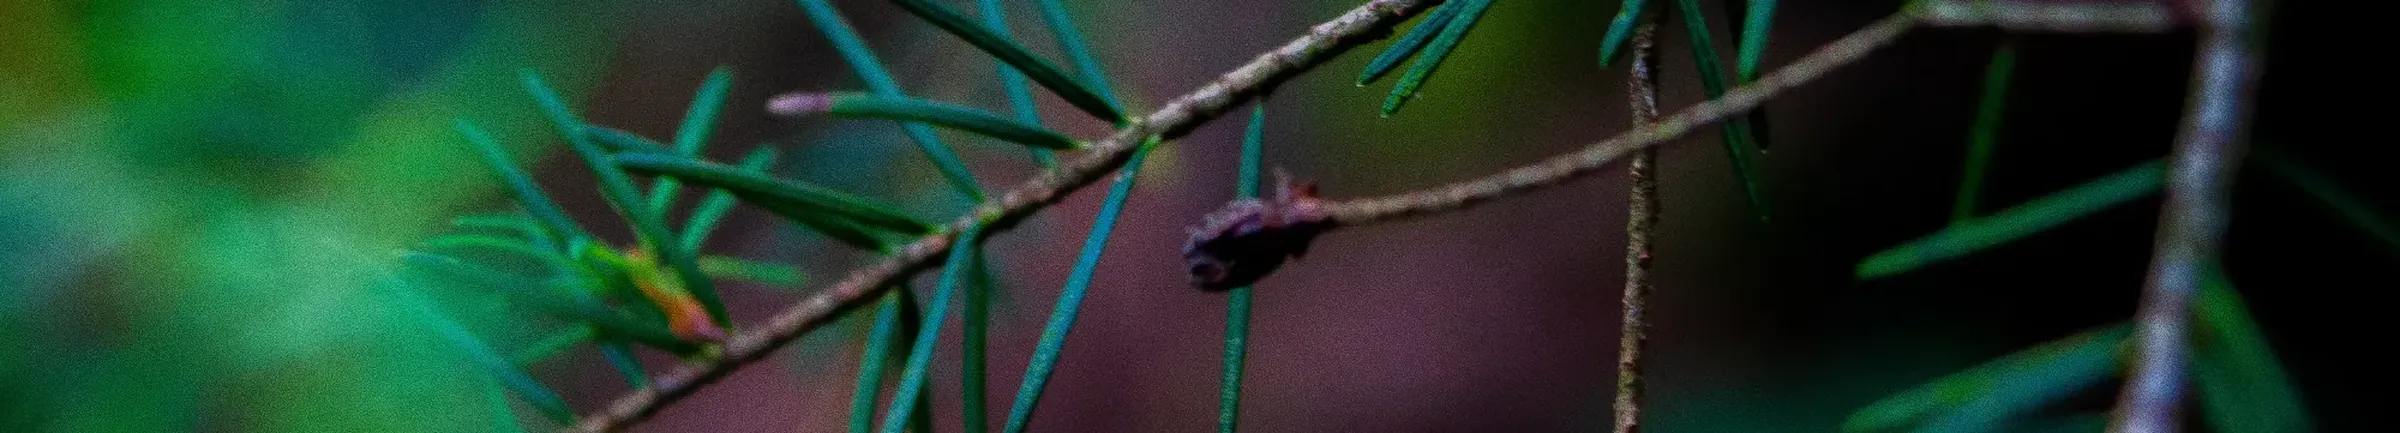
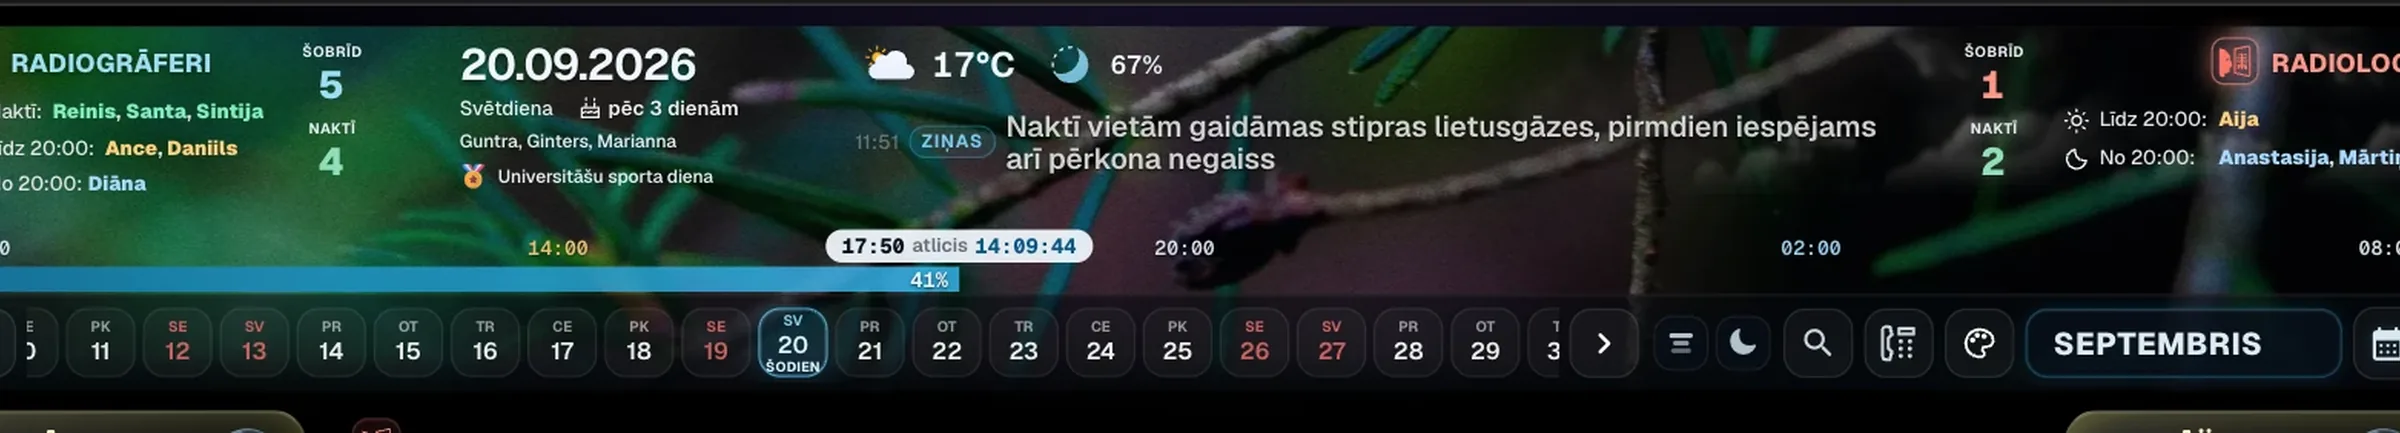
Header: the spruce band as the owner cut it; SW 4.6.667-egle2

diff --git a/kalendars/index.html b/kalendars/index.html
@@ -1566,7 +1566,7 @@ function _mkToast(msg, type) {
 })();
 </script>
 <script src="data/namedays.local.js"></script>
-<script src="data/svinamas-dienas.js?v=20260920egle1"></script>
+<script src="data/svinamas-dienas.js?v=20260920egle2"></script>
 <script src="js/emoji-particles.js?v=20260822bubblefatigue37"></script>
 <script src="js/known-carryovers.js?v=20260907smooth1"></script>
 <script src="js/card-face-model.js?v=20260912wa4"></script>
@@ -2986,7 +2986,7 @@ function _mkToast(msg, type) {
 })();
 </script>
 <script src="js/night-plan-history.js?v=20260907fatigue11"></script>
-<script src="js/calendar.js?v=20260920egle1"></script>
+<script src="js/calendar.js?v=20260920egle2"></script>
 <script src="js/depth-cards.js?v=20260912faces17" defer></script>
 <script src="js/daily-cat.js?v=20260829catpicker1" defer></script>
 <script src="js/header-weather.js?v=20260920icons1" defer></script>
@@ -3007,7 +3007,7 @@ function _mkToast(msg, type) {
 <script src="js/levels.js?v=20260911daybook2" defer></script>
 
 <script>
-window.__minkaLocalBuild = '20260920egle1';
+window.__minkaLocalBuild = '20260920egle2';
 (function(){
   // Last-resort sweep for the month boundaries listed in
   // js/known-carryovers.js: a card that survived every filter because its row
@@ -24389,7 +24389,7 @@ html:root.host-radio-open body #grafiks-list.grid-view .rg-feedback-card.card.mk
    css/mobile-v2.css + js/mobile-v2.js — vizuālais izkārtojums; ?mv2=0 to atslēdz. */
 (function(){
   if (!document.documentElement.classList.contains('mk-mobile-shell')) return;
-  var v = '20260920egle1';
+  var v = '20260920egle2';
   function css(href) { var l = document.createElement('link'); l.rel = 'stylesheet'; l.href = href + '?v=' + v; document.body.appendChild(l); }
   css('css/mobile-fixes.css');
   try { if (new URLSearchParams(location.search).get('mv2') === '0') return; } catch (_e) {}
@@ -24409,6 +24409,6 @@ html:root body #grafiks-app #minkaBarWrap #shift-progress-wrap[hidden] {
 <script src="../js/image-palette.js?v=20260919palette2"></script>
 <link rel="stylesheet" href="css/header-appearance.css?v=20260920riga1">
 <script src="js/header-appearance.js?v=20260920mix3"></script>
-<link rel="stylesheet" href="css/header-duty-summary.css?v=20260920egle1">
+<link rel="stylesheet" href="css/header-duty-summary.css?v=20260920egle2">
 </body>
 </html>

diff --git a/index.html b/index.html
@@ -37,7 +37,7 @@
   }
   window.__minkaHasApiAuth = function() { return !!getToken(); };
 
-  var CALENDAR_BUILD = '20260920egle1';
+  var CALENDAR_BUILD = '20260920egle2';
 
   window.addEventListener('message', function(event) {
     if (event.origin !== window.location.origin || !event.data || event.data.type !== 'minka:rollover-preview-trace') return;
@@ -643,7 +643,7 @@ body:not(.radio-idle) #radioIdleBtn{display:none;}
 <div id="calendarEmbed">
   <!-- Keep the expensive calendar document dormant behind the password gate.
        Authenticated startup assigns data-base-src immediately. -->
-  <iframe src="about:blank" data-base-src="kalendars/index.html?cv=20260920egle1" id="calIframe" title="Dežūru grafiks" loading="eager" allowtransparency="true" fetchpriority="high"></iframe>
+  <iframe src="about:blank" data-base-src="kalendars/index.html?cv=20260920egle2" id="calIframe" title="Dežūru grafiks" loading="eager" allowtransparency="true" fetchpriority="high"></iframe>
 </div>
 
 <!-- Compact brand loader. It stays up until the embedded schedule has painted. -->

diff --git a/mobile.html b/mobile.html
@@ -26,7 +26,7 @@
     } catch (_e) {}
   }
 
-  var CALENDAR_BUILD = '20260920egle1';
+  var CALENDAR_BUILD = '20260920egle2';
 
   function withCalendarBuild(url) {
     try {
@@ -728,8 +728,8 @@ html.mk-low-spec #calendarEmbed {
 <body>
   <div id="calendarEmbed">
     <iframe
-      src="kalendars/index.html?mobile=1&cv=20260920egle1"
-      data-base-src="kalendars/index.html?mobile=1&cv=20260920egle1"
+      src="kalendars/index.html?mobile=1&cv=20260920egle2"
+      data-base-src="kalendars/index.html?mobile=1&cv=20260920egle2"
       id="calIframe"
       title="Mobilais dežūru grafiks"
       loading="eager"

diff --git a/sw.js b/sw.js
@@ -1,4 +1,4 @@
-const CACHE = 'minka-4.6.667-egle1';
+const CACHE = 'minka-4.6.667-egle2';
 const APP_ROOT = new URL('./', self.registration.scope);
 const appUrl = relativePath => new URL(relativePath, APP_ROOT).href;
 
